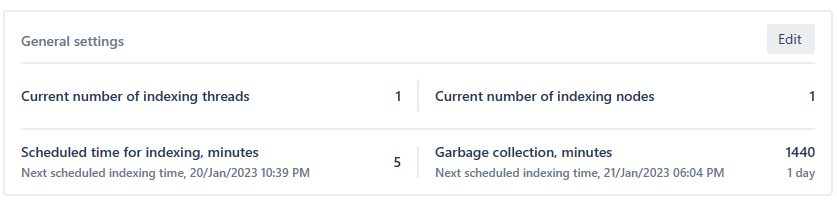
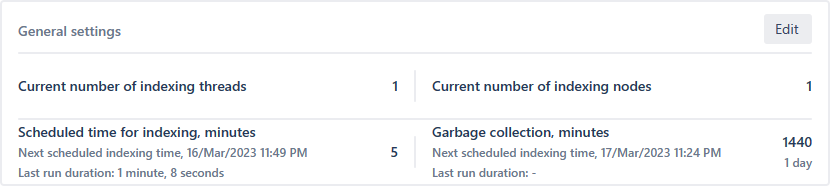
GIT-4933 Update old img and remove old info Insert new method to see Last run duration value

diff --git a/git-integration-for-jira-self-managed/Recommended-reindex-interval-setting-gij-self-managed.md b/git-integration-for-jira-self-managed/Recommended-reindex-interval-setting-gij-self-managed.md
@@ -27,25 +27,19 @@ Set the automatic reindex interval frequency value in minutes as required. The 
 
 Regardless of the time to index, the reindex interval is the amount of time between the currently completed reindex task until the next reindex.
 
-Improving Jira performance depends on the duration value of the _RevisionIndexJob_. To see the `Last run duration` value, do the following steps:
+Improving Jira performance depends on the duration value of the scheduled jobs. To see the `Last run duration` value, do the following steps:
 
-1.  Go to <img src='/wp-content/uploads/actions-icon.png' /> Jira Administration ➜ **System**.
+<b style='background-color:#FFF1B6; padding:1px 5px; color:#172A4C; border-radius:3px; margin: 0 5px; font-size: small;'>VERSION 4.13+</b>
 
-2.  On the sidebar, select **Scheduler details**.
+1.  Go to **Indexing queue viewer** (Jira dashboard menu Git ➜ _**Indexing queue**_).
 
-3.  Scroll to `com.xiplink.jira.git.revisions.RevisionIndexJob`.
+    ![](/wp-content/uploads/gij-gitserver-indexing-queue-mgr-loc-01.png)
 
-    ![](/wp-content/uploads/gij-ira-system-sched-details-revidxjob-item-c.png)
+2.  On the indexing queue dashboard, under **Scheduled time for indexing, minutes** or **Garbage collection, minutes** panels to see the `Last run duration` value.
 
-4.  Click **Show more** under the Actions column.
+    ![](/wp-content/uploads/gij-gitserver-indexing-queue-viewer-gencfg-dashboard.png)
 
-    ![](/wp-content/uploads/gij-jira-system-sched-details-revisionindexjob-c.png)
-
-<br>
-
-<b style='background-color:#FFF1B6; padding:1px 5px; color:#172A4C; border-radius:3px; margin: 0 5px; font-size: small;'>VERSION 4.13+</b> The other recommended method to see the value of the <code>Last run duration</code> is to use the <a href='/git-integration-for-jira-data-center/Indexing-queue-viewer-gij-self-managed'>Indexing queue viewer</a>.
-
-<br>
+<p>&nbsp;</p>
 
 If the `Last run duration` value shows `3 minutes` _or greater_, we recommend to increase the reindex interval.
 
